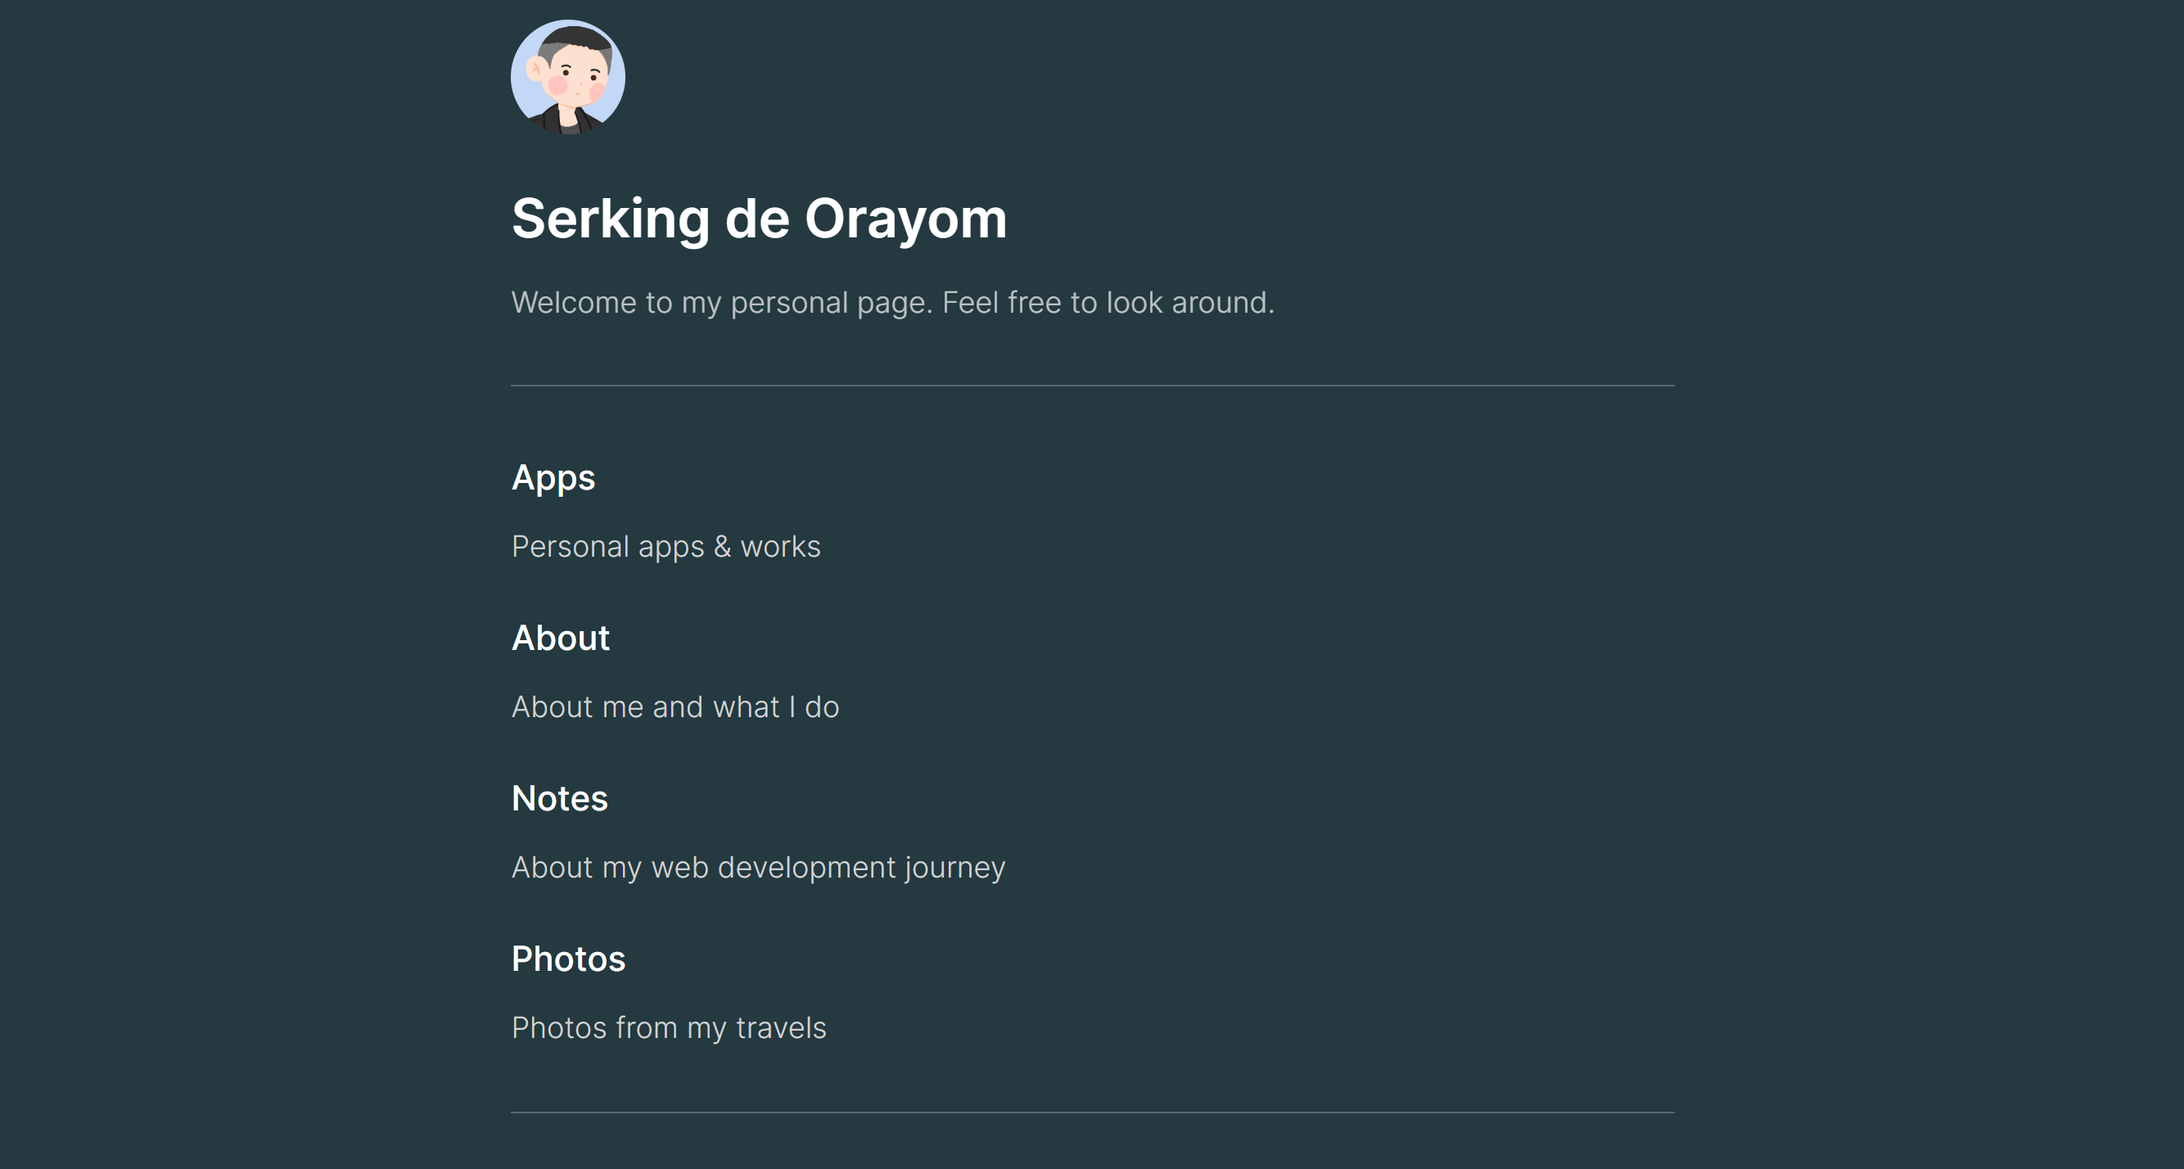
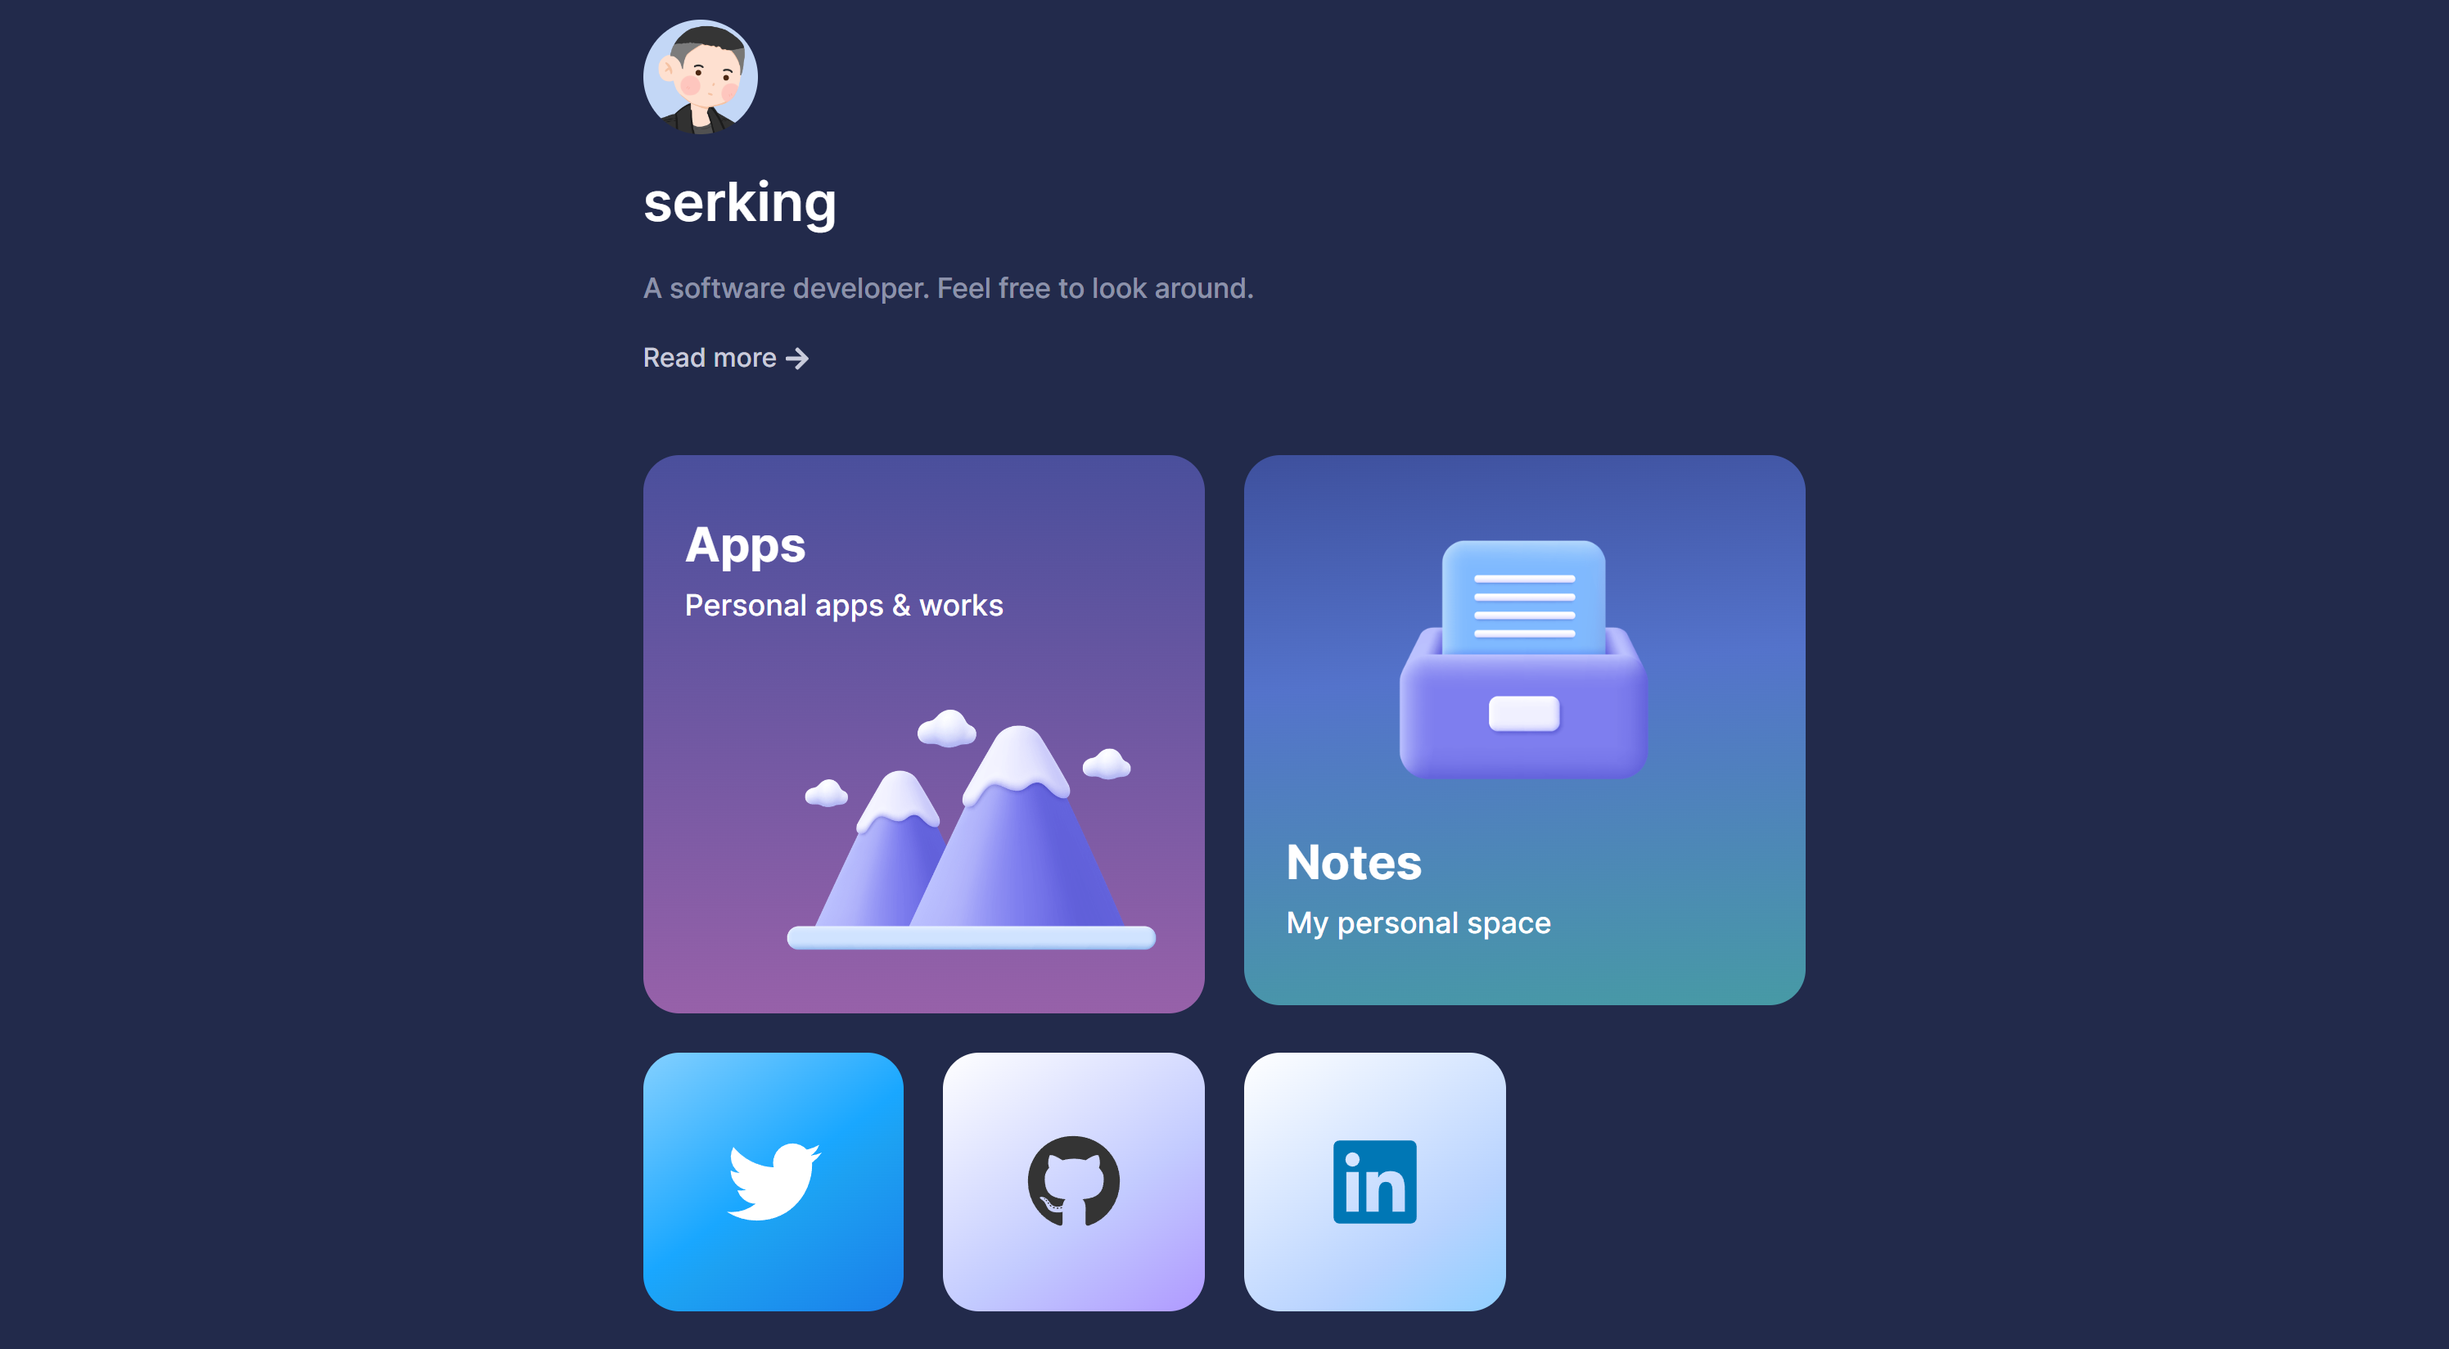
almost finished

Changed region(s): [[0.2178, 0.3081, 0.7466, 0.986], [0.2178, 0.0, 0.5911, 0.2773]]

diff --git a/src/pages/Apps.js b/src/pages/Apps.js
@@ -22,15 +22,18 @@ const Apps = ({ setWork }) => {
                 <h2 className="page__content">Below are the projects &amp; personal apps I've worked on.</h2>
 
                 <div className="row my-5">
+
                     {works.map((work) => {
-                        return <div className="col-sm-12 col-md-6 mb-4" key={work.work_id}>
-                            <Link onClick={() => setWork(work.work_id)} to={work.work_link} className='apps__link__text'>
-                                <div className="apps__item">
-                                    <img src={work.work_image} className="app__image img-fluid mt-3 mb-4" alt="notes" />
-                                    <h1 className="apps__title"><span>{work.work_title}</span></h1>
-                                    <h1 className="apps__subtitle"><span>{work.work_description}</span></h1>
-                                </div>
-                            </Link>
+                        return <div className="col-sm-12 col-md-6 mb-4 d-flex justify-content-center">
+                            <div class="apps__item">
+                                <Link onClick={() => setWork(work.work_id)} to={work.work_link} className='apps__link__text'>
+                                    <img src={work.work_image} className="img-fluid" style={{ borderTopLeftRadius: "0.5em", borderTopRightRadius: "0.5em" }} alt="works" />
+                                    <div className="apps__text">
+                                        <h5 class="apps_title">{work.work_title}</h5>
+                                        <p class="apps__subtitle">{work.work_description}</p>
+                                    </div>
+                                </Link>
+                            </div>
                         </div>
                     })}
 

diff --git a/src/assets/scripts/works.js b/src/assets/scripts/works.js
@@ -3,12 +3,12 @@ import account_manager from '../images/apps/account-manager.png'
 import react_portfolio from '../images/apps/react-portfolio.png'
 import group_study_gallery from '../images/apps/group-study-gallery.png'
 import barangay_malaban from '../images/apps/barangay-malaban.png'
-import shutdown_timer from '../images/apps/placeholder.png'
+// import placeholder from '../images/apps/placeholder.png'
 
 const works = [
     {
         "work_id": 0,
-        "work_title": "SALIKSIK: Research Repository",
+        "work_title": "SALIKSIK: UPHSL Research Repository",
         "work_description": "The Official Institutional Repository of the University of Perpetual Help System Laguna",
         "work_link": "work",
         "work_image": saliksik,
@@ -17,7 +17,7 @@ const works = [
     {
         "work_id": 1,
         "work_title": "React Portfolio",
-        "work_description": "Personal page of Serking de Orayom created using React JS. Feel free to look around",
+        "work_description": "Improved version of Serking de Orayom's portfolio website created using React",
         "work_link": "work",
         "work_image": react_portfolio,
         "work_file_name": "react-portfolio.md",
@@ -49,9 +49,9 @@ const works = [
     {
         "work_id": 5,
         "work_title": "Shutdown Timer",
-        "work_description": "A simple shutdown scheduler application for Windows",
+        "work_description": "A simple shutdown scheduler application for Windows made using C# Windows Form Application",
         "work_link": "work",
-        "work_image": shutdown_timer,
+        "work_image": "https://via.placeholder.com/1205x715.png/4C9195/FFFFFF?text=Shutdown+Timer",
         "work_file_name": "shutdown-timer.md",
     },
 ]

diff --git a/src/assets/scripts/notes.js b/src/assets/scripts/notes.js
@@ -1,17 +1,17 @@
 import claps from '../images/ui/emojis/claps.png'
-import party from '../images/ui/emojis/party.png'
+// import party from '../images/ui/emojis/party.png'
 
 const notes = [
+    // {
+    //     "note_id": 0,
+    //     "note_title": "Hooray! It's Christmas Season",
+    //     "note_date": "September 1, 2022",
+    //     "note_file_name": "christmas-season.md",
+    //     "note_link": "post",
+    //     "note_image": party
+    // },
     {
         "note_id": 0,
-        "note_title": "Hooray! It's Christmas Season",
-        "note_date": "September 1, 2022",
-        "note_file_name": "christmas-season.md",
-        "note_link": "post",
-        "note_image": party
-    },
-    {
-        "note_id": 1,
         "note_title": "Made a new portfolio site with React",
         "note_date": "August 29, 2022",
         "note_file_name": "portfolio-site.md",

diff --git a/src/assets/css/apps.css b/src/assets/css/apps.css
@@ -1,17 +1,16 @@
 .apps__item {
-    border-radius: 26px;
     line-height: 1.5;
     background-color: #2b3047;
-    padding: 1rem 1.2rem 1.3rem;
-    display: flex;
-    flex-direction: column;
-    overflow: hidden;
+    border-radius: 0.5em;
 }
 
 .apps__item:hover {
     transform: translate(0, -7px);
-    /* transform: scale(1.03); */
     transition: all 0.1s linear;
+}
+
+.apps__text {
+    margin: 20px 10px;
 }
 
 .apps__title {
@@ -35,8 +34,4 @@
 
 .apps__link__text:hover {
     color: #fff;
-}
-
-.app__image {
-    border-radius: 5px;
 }

diff --git a/src/assets/markdown/works/saliksik.md b/src/assets/markdown/works/saliksik.md
@@ -1,16 +1,22 @@
-# <span className="page__title">SALIKSIK: Research Repository</span>
+# <span className="page__title"> SALIKSIK: UPHSL Research Repository</span>
+
+<span style="color: lightgrey">Capstone Project</span>
 
 &nbsp;
 
 <span className="page__content">
-I was using the traditional HTML and CSS (with Bootstrap) for my portfolio site. This was fine, but I didn't like having to deal with the staticity of the site every time I will add new data to it. Everything is hardcoded and I was getting frustrated every time I make changes to the site.
+The **SALIKSIK: UPHSL Research Repository** is a web-based Institutional Repository for disseminating, archiving and preserving digital copies of academic papers of the **University of Perpetual Help System Laguna - Biñan Campus**.
 
-Like many others, I needed to improve my skills so I started learning React. I immediately saw how extremely competent it is and how creating dynamic websites become easier due to its features. So I decided to redesign and replace the technology I used on my portfolio site with React.
+This is my Capstone Project during my senior year in college and is currently planned on being implemented for the use of the University.
 
-Most of the design and the concept are borrowed from the portfolio site of Catnose, a software developer, designer and maker based in Japan.
+I served as the main front-end developer of the system project, but I also did some of its backend such as the **login system**.
 
-As a way to study, I also incorporated in this portfolio the use of markdowns, such as the one I used writing this note and the use of JSON for dynamicity.
+**Technology used:**
 
-I'm planning on recreating this portfolio website using Next.js once I get the hang of React.
+HTML, CSS, JavaScript, Bootstrap, jQuery, AJAX, PHP, MySQL
+
+**Visit website:**
+
+<a href="https://www.saliksik-uphsl.com" target="_blank" style="color: white;">https://www.saliksik-uphsl.com</a>
 
 </span>

diff --git a/src/assets/markdown/works/barangay-malaban.md b/src/assets/markdown/works/barangay-malaban.md
@@ -1,16 +1,18 @@
-# <span className="page__title">Barangay Malaban Resident Information Management System</span>
+# <span className="page__title"> Barangay Malaban Resident Information Management System</span>
+
+<span style="color: lightgrey">Course Project</span>
 
 &nbsp;
 
 <span className="page__content">
-I was using the traditional HTML and CSS (with Bootstrap) for my portfolio site. This was fine, but I didn't like having to deal with the staticity of the site every time I will add new data to it. Everything is hardcoded and I was getting frustrated every time I make changes to the site.
+This project is developed during my 3rd year in college and is a requirement for one of my subjects for the course. It is a simple CRUD application for the residents of Barangay Malaban in Biñan, Laguna.
 
-Like many others, I needed to improve my skills so I started learning React. I immediately saw how extremely competent it is and how creating dynamic websites become easier due to its features. So I decided to redesign and replace the technology I used on my portfolio site with React.
+This is the first-ever system project that I worked on, and I managed to develop this system project all by myself without having prior knowledge to software development.
 
-Most of the design and the concept are borrowed from the portfolio site of Catnose, a software developer, designer and maker based in Japan.
+Unfortunately, I have lost the source code for this project due to a storage failure, and I was not yet aware of version control system such as **Git** and **GitHub** at the time for backup.
 
-As a way to study, I also incorporated in this portfolio the use of markdowns, such as the one I used writing this note and the use of JSON for dynamicity.
+**Technology used:**
 
-I'm planning on recreating this portfolio website using Next.js once I get the hang of React.
+C# Windows Forms, Microsoft SQL Server
 
 </span>

diff --git a/src/assets/markdown/works/account-manager.md b/src/assets/markdown/works/account-manager.md
@@ -1,16 +1,22 @@
-# <span className="page__title">Account Manager</span>
+# <span className="page__title"> Account Manager</span>
+
+<span style="color: lightgrey">Personal Project</span>
 
 &nbsp;
 
 <span className="page__content">
-I was using the traditional HTML and CSS (with Bootstrap) for my portfolio site. This was fine, but I didn't like having to deal with the staticity of the site every time I will add new data to it. Everything is hardcoded and I was getting frustrated every time I make changes to the site.
+**Account Manager** is more of a personal web application for my own use.
 
-Like many others, I needed to improve my skills so I started learning React. I immediately saw how extremely competent it is and how creating dynamic websites become easier due to its features. So I decided to redesign and replace the technology I used on my portfolio site with React.
+I seem to have a hard time remembering my social media and other accounts’ emails, usernames and passwords so I created the app that stores my login credentials and is accessible anywhere given that it is web-based.
 
-Most of the design and the concept are borrowed from the portfolio site of Catnose, a software developer, designer and maker based in Japan.
+Currently, some of my friends uses the app for storing their other not-so-sensitive accounts.
 
-As a way to study, I also incorporated in this portfolio the use of markdowns, such as the one I used writing this note and the use of JSON for dynamicity.
+**Technology used:**
 
-I'm planning on recreating this portfolio website using Next.js once I get the hang of React.
+HTML, CSS, JavaScript, Bootstrap, jQuery, AJAX, PHP, MySQL
+
+**Visit website:**
+
+<a href="https://account-manager.online" target="_blank" style="color: white;">https://account-manager.online</a>
 
 </span>

diff --git a/src/assets/markdown/works/shutdown-timer.md b/src/assets/markdown/works/shutdown-timer.md
@@ -1,16 +1,22 @@
-# <span className="page__title">Shutdown Timer</span>
+# <span className="page__title"> Shutdown Timer</span>
+
+<span style="color: lightgrey">Personal Project</span>
 
 &nbsp;
 
 <span className="page__content">
-I was using the traditional HTML and CSS (with Bootstrap) for my portfolio site. This was fine, but I didn't like having to deal with the staticity of the site every time I will add new data to it. Everything is hardcoded and I was getting frustrated every time I make changes to the site.
+A very simple application that I developed for personal use.
 
-Like many others, I needed to improve my skills so I started learning React. I immediately saw how extremely competent it is and how creating dynamic websites become easier due to its features. So I decided to redesign and replace the technology I used on my portfolio site with React.
+It turns the computer off after a certain amount of time (in seconds, but time converter is provided).
 
-Most of the design and the concept are borrowed from the portfolio site of Catnose, a software developer, designer and maker based in Japan.
+Some of my friends use this application and they find it very helpful.
 
-As a way to study, I also incorporated in this portfolio the use of markdowns, such as the one I used writing this note and the use of JSON for dynamicity.
+**Technology used:**
 
-I'm planning on recreating this portfolio website using Next.js once I get the hang of React.
+C# Windows Forms
+
+**Source code:**
+
+<a href="https://github.com/kingdeorayom/shutdown-manager" target="_blank" style="color: white;">https://github.com/kingdeorayom/shutdown-manager</a>
 
 </span>

diff --git a/src/assets/markdown/works/react-portfolio.md b/src/assets/markdown/works/react-portfolio.md
@@ -1,16 +1,24 @@
-# <span className="page__title">React Portfolio</span>
+# <span className="page__title"> React Portfolio</span>
+
+<span style="color: lightgrey">Personal Project</span>
 
 &nbsp;
 
 <span className="page__content">
 I was using the traditional HTML and CSS (with Bootstrap) for my portfolio site. This was fine, but I didn't like having to deal with the staticity of the site every time I will add new data to it. Everything is hardcoded and I was getting frustrated every time I make changes to the site.
 
-Like many others, I needed to improve my skills so I started learning React. I immediately saw how extremely competent it is and how creating dynamic websites become easier due to its features. So I decided to redesign and replace the technology I used on my portfolio site with React.
-
 Most of the design and the concept are borrowed from the portfolio site of Catnose, a software developer, designer and maker based in Japan.
 
 As a way to study, I also incorporated in this portfolio the use of markdowns, such as the one I used writing this note and the use of JSON for dynamicity.
 
 I'm planning on recreating this portfolio website using Next.js once I get the hang of React.
+
+**Technology used:**
+
+React JS, JSON, Markdown, Bootstrap, jQuery, animate.css, markdown-to-jsx
+
+**Visit website:**
+
+<a href="https://kingdeorayom.tech" target="_blank" style="color: white;">https://kingdeorayom.tech</a>
 
 </span>

diff --git a/src/assets/markdown/works/group-study-gallery.md b/src/assets/markdown/works/group-study-gallery.md
@@ -1,16 +1,11 @@
-# <span className="page__title">Group Study Gallery</span>
+# <span className="page__title"> Group Study Gallery</span>
+
+<span style="color: lightgrey">Personal Project</span>
 
 &nbsp;
 
 <span className="page__content">
-I was using the traditional HTML and CSS (with Bootstrap) for my portfolio site. This was fine, but I didn't like having to deal with the staticity of the site every time I will add new data to it. Everything is hardcoded and I was getting frustrated every time I make changes to the site.
 
-Like many others, I needed to improve my skills so I started learning React. I immediately saw how extremely competent it is and how creating dynamic websites become easier due to its features. So I decided to redesign and replace the technology I used on my portfolio site with React.
-
-Most of the design and the concept are borrowed from the portfolio site of Catnose, a software developer, designer and maker based in Japan.
-
-As a way to study, I also incorporated in this portfolio the use of markdowns, such as the one I used writing this note and the use of JSON for dynamicity.
-
-I'm planning on recreating this portfolio website using Next.js once I get the hang of React.
+No information yet—Wait for it! 😁
 
 </span>

diff --git a/src/assets/markdown/notes/portfolio-site.md b/src/assets/markdown/notes/portfolio-site.md
@@ -1,4 +1,4 @@
-# <span className="page__title">Made a new portfolio site with React</span>
+# <span className="page__title"> Made a new portfolio site with React</span>
 
 <span style="color: lightgrey">August 29, 2022</span>
 

diff --git a/src/assets/markdown/notes/christmas-season.md b/src/assets/markdown/notes/christmas-season.md
@@ -1,4 +1,4 @@
-# <span className="page__title">Hooray! It's Christmas Season</span>
+# <span className="page__title"> Hooray! It's Christmas Season</span>
 
 <span style="color: lightgrey">September 1, 2022</span>
 
